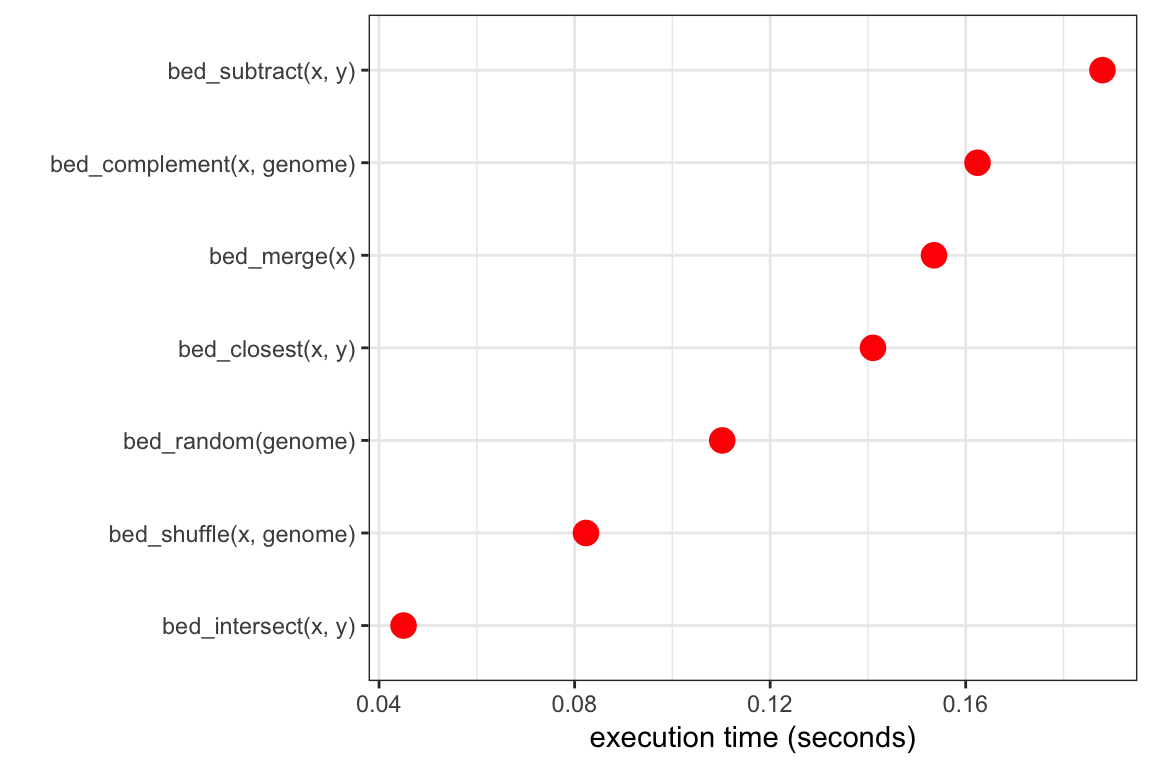
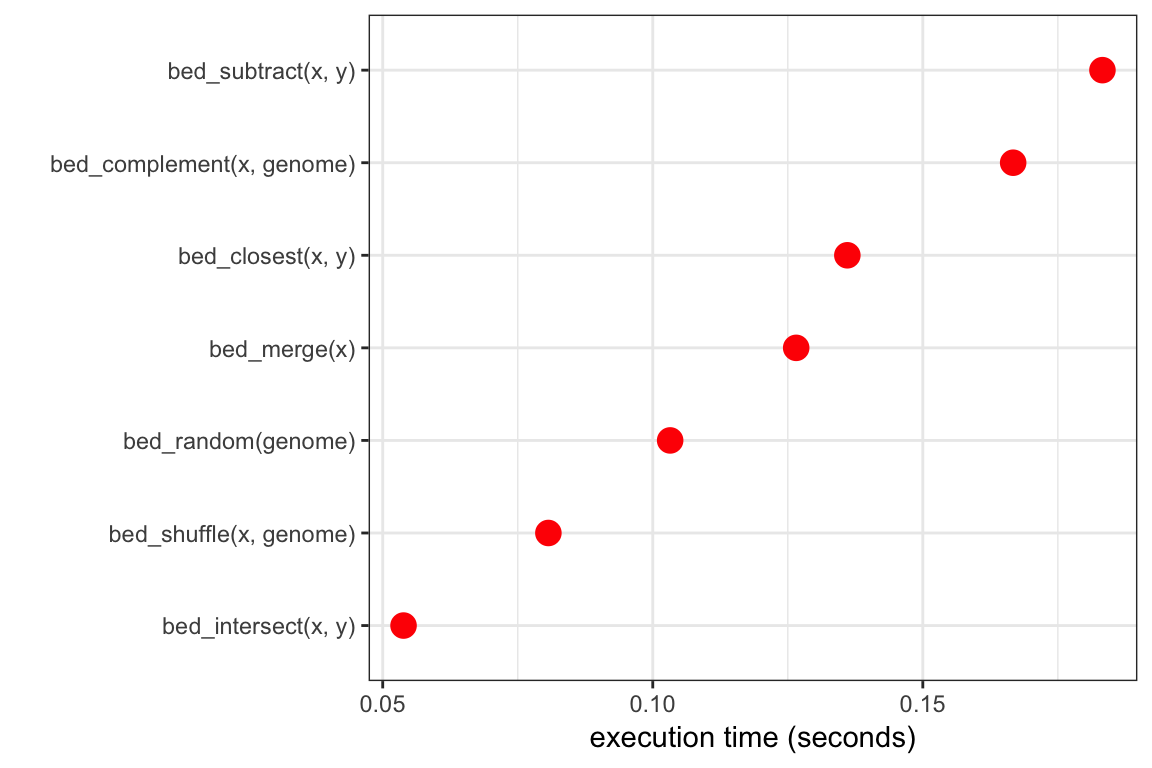
remove warnings from remote db call in valr vignette

diff --git a/docs/articles/valr.html b/docs/articles/valr.html
@@ -137,32 +137,11 @@ if(<span class="kw">require</span>(RMySQL)) {
   ucsc &lt;-<span class="st"> </span><span class="kw"><a href="../reference/db.html">db_ucsc</a></span>(<span class="st">'hg38'</span>)
   <span class="kw">tbl</span>(ucsc, <span class="st">'refGene'</span>)
 }
-<span class="co">#&gt; Warning in .local(conn, statement, ...): Unsigned INTEGER in col 0 imported</span>
-<span class="co">#&gt; as numeric</span>
-<span class="co">#&gt; Warning in .local(conn, statement, ...): Unsigned INTEGER in col 4 imported</span>
-<span class="co">#&gt; as numeric</span>
-<span class="co">#&gt; Warning in .local(conn, statement, ...): Unsigned INTEGER in col 5 imported</span>
-<span class="co">#&gt; as numeric</span>
-<span class="co">#&gt; Warning in .local(conn, statement, ...): Unsigned INTEGER in col 6 imported</span>
-<span class="co">#&gt; as numeric</span>
-<span class="co">#&gt; Warning in .local(conn, statement, ...): Unsigned INTEGER in col 7 imported</span>
-<span class="co">#&gt; as numeric</span>
-<span class="co">#&gt; Warning in .local(conn, statement, ...): Unsigned INTEGER in col 8 imported</span>
-<span class="co">#&gt; as numeric</span>
+<span class="co">#&gt; Loading required package: RMySQL</span>
+<span class="co">#&gt; Loading required package: DBI</span>
 <span class="co">#&gt; Source:   query [?? x 16]</span>
 <span class="co">#&gt; Database: mysql 5.6.26-log [genomep@genome-mysql.cse.ucsc.edu:/hg38]</span>
-<span class="co">#&gt; Warning in .local(conn, statement, ...): Unsigned INTEGER in col 0 imported</span>
-<span class="co">#&gt; as numeric</span>
-<span class="co">#&gt; Warning in .local(conn, statement, ...): Unsigned INTEGER in col 4 imported</span>
-<span class="co">#&gt; as numeric</span>
-<span class="co">#&gt; Warning in .local(conn, statement, ...): Unsigned INTEGER in col 5 imported</span>
-<span class="co">#&gt; as numeric</span>
-<span class="co">#&gt; Warning in .local(conn, statement, ...): Unsigned INTEGER in col 6 imported</span>
-<span class="co">#&gt; as numeric</span>
-<span class="co">#&gt; Warning in .local(conn, statement, ...): Unsigned INTEGER in col 7 imported</span>
-<span class="co">#&gt; as numeric</span>
-<span class="co">#&gt; Warning in .local(conn, statement, ...): Unsigned INTEGER in col 8 imported</span>
-<span class="co">#&gt; as numeric</span>
+<span class="co">#&gt; </span>
 <span class="co">#&gt;      bin         name chrom strand  txStart    txEnd cdsStart   cdsEnd</span>
 <span class="co">#&gt;    &lt;dbl&gt;        &lt;chr&gt; &lt;chr&gt;  &lt;chr&gt;    &lt;dbl&gt;    &lt;dbl&gt;    &lt;dbl&gt;    &lt;dbl&gt;</span>
 <span class="co">#&gt; 1    585    NR_046018  chr1      +    11873    14409    14409    14409</span>
@@ -381,16 +360,16 @@ shuffled
 <span class="co">#&gt; # A tibble: 100 × 3</span>
 <span class="co">#&gt;      rep                  data      jaccard</span>
 <span class="co">#&gt;    &lt;chr&gt;                &lt;list&gt;        &lt;dbl&gt;</span>
-<span class="co">#&gt; 1      1 &lt;tibble [10,000 × 6]&gt; 0.0002768562</span>
-<span class="co">#&gt; 2      2 &lt;tibble [10,000 × 6]&gt; 0.0003448034</span>
-<span class="co">#&gt; 3      3 &lt;tibble [10,000 × 6]&gt; 0.0003879722</span>
-<span class="co">#&gt; 4      4 &lt;tibble [10,000 × 6]&gt; 0.0001653521</span>
-<span class="co">#&gt; 5      5 &lt;tibble [10,000 × 6]&gt; 0.0002541404</span>
-<span class="co">#&gt; 6      6 &lt;tibble [10,000 × 6]&gt; 0.0008018792</span>
-<span class="co">#&gt; 7      7 &lt;tibble [10,000 × 6]&gt; 0.0005125422</span>
-<span class="co">#&gt; 8      8 &lt;tibble [10,000 × 6]&gt; 0.0001806308</span>
-<span class="co">#&gt; 9      9 &lt;tibble [10,000 × 6]&gt; 0.0004311447</span>
-<span class="co">#&gt; 10    10 &lt;tibble [10,000 × 6]&gt; 0.0002303932</span>
+<span class="co">#&gt; 1      1 &lt;tibble [10,000 × 6]&gt; 0.0003448034</span>
+<span class="co">#&gt; 2      2 &lt;tibble [10,000 × 6]&gt; 0.0003879722</span>
+<span class="co">#&gt; 3      3 &lt;tibble [10,000 × 6]&gt; 0.0001653521</span>
+<span class="co">#&gt; 4      4 &lt;tibble [10,000 × 6]&gt; 0.0002541404</span>
+<span class="co">#&gt; 5      5 &lt;tibble [10,000 × 6]&gt; 0.0008018792</span>
+<span class="co">#&gt; 6      6 &lt;tibble [10,000 × 6]&gt; 0.0005125422</span>
+<span class="co">#&gt; 7      7 &lt;tibble [10,000 × 6]&gt; 0.0001806308</span>
+<span class="co">#&gt; 8      8 &lt;tibble [10,000 × 6]&gt; 0.0004311447</span>
+<span class="co">#&gt; 9      9 &lt;tibble [10,000 × 6]&gt; 0.0002303932</span>
+<span class="co">#&gt; 10    10 &lt;tibble [10,000 × 6]&gt; 0.0003819820</span>
 <span class="co">#&gt; # ... with 90 more rows</span></code></pre></div>
 </div>
 </div>

diff --git a/docs/articles/interval-stats.html b/docs/articles/interval-stats.html
@@ -169,24 +169,25 @@ shf_stats &lt;-<span class="st"> </span><span class="kw">distance_stats</span>(s
 <span class="st">  </span><span class="kw">na.omit</span>()
 
 res
-<span class="co">#&gt; Source: local data frame [16,792 x 5]</span>
-<span class="co">#&gt; Groups: name, stat [1,914]</span>
+<span class="co">#&gt; Source: local data frame [16,783 x 5]</span>
+<span class="co">#&gt; Groups: name, stat [1,917]</span>
 <span class="co">#&gt; </span>
 <span class="co">#&gt;     name    stat   .id     obs     shuf</span>
 <span class="co">#&gt;    &lt;chr&gt;   &lt;chr&gt; &lt;int&gt;   &lt;dbl&gt;    &lt;dbl&gt;</span>
-<span class="co">#&gt; 1   (A)n absdist     1 5120782 12994665</span>
-<span class="co">#&gt; 2   (A)n absdist     2  226476 10142569</span>
-<span class="co">#&gt; 3   (A)n absdist     3   31241  9324589</span>
-<span class="co">#&gt; 4   (A)n absdist     4    8931  8497577</span>
-<span class="co">#&gt; 5   (A)n absdist     5   41316  7408638</span>
-<span class="co">#&gt; 6   (A)n absdist     6   22519  6009524</span>
-<span class="co">#&gt; 7   (A)n absdist     7   15173  4678515</span>
-<span class="co">#&gt; 8   (A)n absdist     8   21985  2833472</span>
-<span class="co">#&gt; 9   (A)n absdist     9   13457  2116237</span>
-<span class="co">#&gt; 10  (A)n absdist    10  134007    38887</span>
-<span class="co">#&gt; # ... with 16,782 more rows</span></code></pre></div>
+<span class="co">#&gt; 1   (A)n absdist     1 5120782 16132005</span>
+<span class="co">#&gt; 2   (A)n absdist     2  226476 15814356</span>
+<span class="co">#&gt; 3   (A)n absdist     3   31241 15796544</span>
+<span class="co">#&gt; 4   (A)n absdist     4    8931 13710527</span>
+<span class="co">#&gt; 5   (A)n absdist     5   41316 13199818</span>
+<span class="co">#&gt; 6   (A)n absdist     6   22519 11992550</span>
+<span class="co">#&gt; 7   (A)n absdist     7   15173  9489576</span>
+<span class="co">#&gt; 8   (A)n absdist     8   21985  7551954</span>
+<span class="co">#&gt; 9   (A)n absdist     9   13457  6311562</span>
+<span class="co">#&gt; 10  (A)n absdist    10  134007  5127374</span>
+<span class="co">#&gt; # ... with 16,773 more rows</span></code></pre></div>
 <p>Now that the data are formatted, we can use <code>ks.test()</code> to determine whether there are significant differences between the observed and shuffled data for each group. <code>broom::tidy()</code> is used to reformat the results of each test into a <code>data_frame</code>, and the results of each test are <code>gather</code>ed to into a <code>type</code> column for each test type.</p>
 <div class="sourceCode"><pre class="sourceCode r"><code class="sourceCode r"><span class="kw">library</span>(broom)
+<span class="co">#&gt; Warning: package 'broom' was built under R version 3.3.2</span>
 
 <span class="co"># silence the tests with ties ...</span>
 ks.test.quiet &lt;-<span class="st"> </span>function(...) {<span class="kw">suppressWarnings</span>(<span class="kw">ks.test</span>(...))}
@@ -312,6 +313,7 @@ pvals
 <span class="co">#&gt; # ... with 169 more rows, and 1 more variables: q.value &lt;dbl&gt;</span></code></pre></div>
 <p>The projection test is a two-tailed statistical test. A significant p-value indicates either enrichment or depletion of query intervals compared to the reference interval sets. A value of <code>lower_tail = TRUE</code> column indicates that the query intervals are depleted, whereas <code>lower_tail = FALSE</code> indicates that the query intervals are enriched.</p>
 <div class="sourceCode"><pre class="sourceCode r"><code class="sourceCode r"><span class="kw">library</span>(knitr)
+<span class="co">#&gt; Warning: package 'knitr' was built under R version 3.3.2</span>
 
 <span class="co"># find and show top 5 most significant repeats</span>
 signif_tests &lt;-

diff --git a/docs/news/index.html b/docs/news/index.html
@@ -108,6 +108,7 @@
 <h2 class="hasAnchor">
 <a href="#minor-changes" class="anchor"> </a>Minor changes</h2>
 <ul>
+<li><p>Deprecate <code>dist</code> parameter in <code><a href="../reference/bed_closest.html">bed_closest()</a></code> in favor of using user supplied functions (#182 @kriemo)</p></li>
 <li><p>Make <code>.id</code> values sequential across chroms in <code><a href="../reference/bed_cluster.html">bed_cluster()</a></code> output (#171)</p></li>
 <li><p>Transfer repository to <a href="http:://github.com/rnabioco/valr" class="uri">http:://github.com/rnabioco/valr</a>, update links and docs.</p></li>
 <li><p>Move shiny app to new repo (<a href="http://github.com/rnabioco/valrdata" class="uri">http://github.com/rnabioco/valrdata</a>).</p></li>
